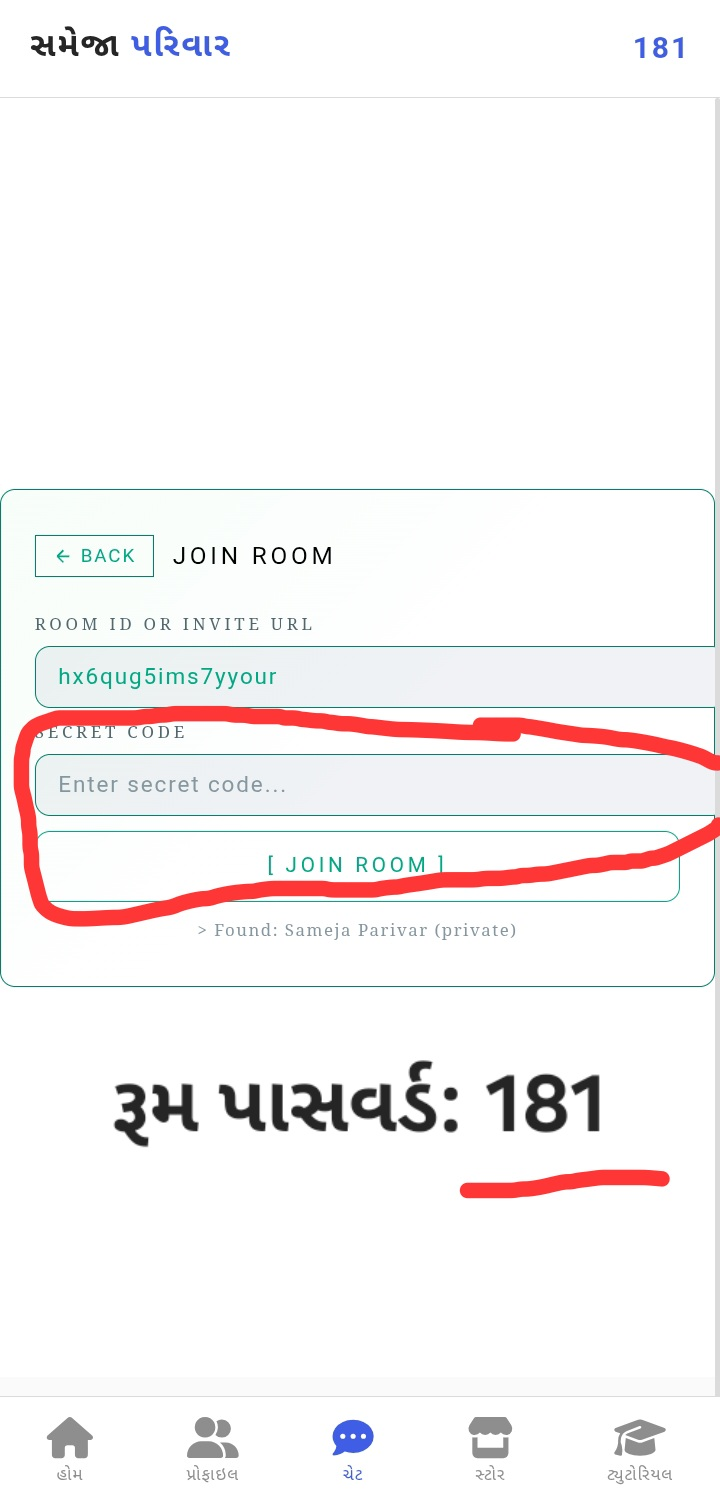
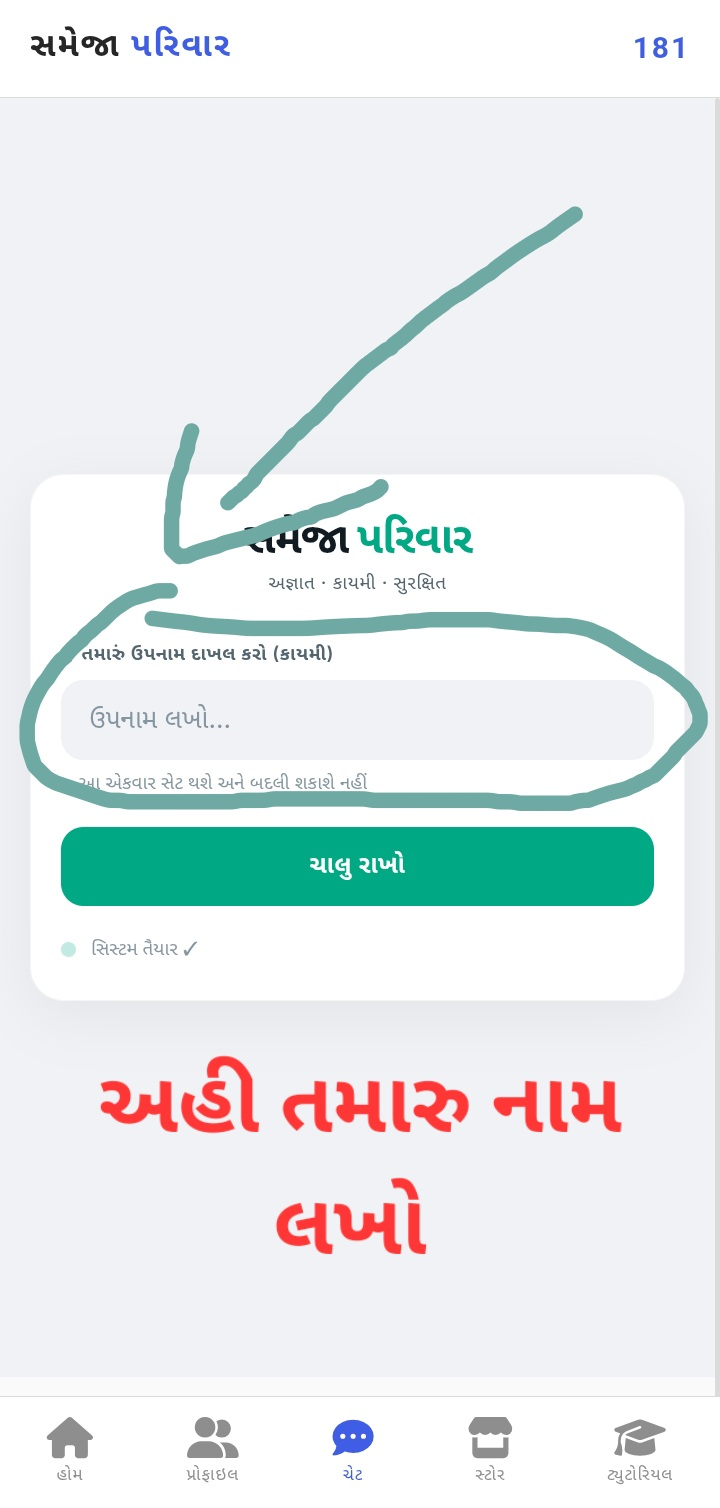
Add files via upload

diff --git a/index.html b/index.html
@@ -3,10 +3,10 @@
 <head>
 <meta charset="UTF-8">
 <meta name="viewport" content="width=device-width, initial-scale=1.0, maximum-scale=1.0, user-scalable=no">
-<title>સમેજા પરિવાર</title>
+<title>સમેજા પરિવાર | દાદીમા ની દુવા </title>
 
 <!-- PWA META TAGS -->
-<meta name="description" content="સમેજા પરિવાર - ગુજરાતી સોશિયલ નેટવર્ક">
+<meta name="description" content="સમેજા પરિવાર - દાદીમા ની દુવા ">
 <meta name="theme-color" content="#405DE6">
 <meta name="mobile-web-app-capable" content="yes">
 <meta name="apple-mobile-web-app-capable" content="yes">
@@ -782,7 +782,7 @@ html, body {
     <button class="tutorial-popup-close" id="tutorial-close"><i class="fas fa-times"></i></button>
     <img src="t5.jpg" alt="Tutorial" id="tutorial-img">
     <div class="tutorial-popup-footer">
-      <h3>📚 સ્વાગત છે!</h3>
+      <h3>સમેજા પરિવાર</h3>
       <p>એપનો ઉપયોગ કેવી રીતે કરવો તે જાણવા માટે આ ટ્યુટોરિયલ જુઓ</p>
     </div>
   </div>
@@ -827,6 +827,7 @@ html, body {
      ============================================================ -->
 <div id="splash">
   <div class="splash-logo">સમેજા પરિવાર</div>
+  <div class="splash-sub">દાદીમા ની દુવા </div>
   <div class="splash-sub">Created By Rehan Sandhi</div>
   <div class="splash-loader"></div>
 </div>
@@ -850,7 +851,7 @@ html, body {
 
     <!-- PAGE 2: PROFILES -->
     <div class="page" id="page-profiles">
-      <div class="page-title"><i class="fas fa-users"></i> અમારા પ્રોફાઇલ્સ</div>
+      <div class="page-title"><i class="fas fa-users"></i>પ્રોફાઇલ્સ</div>
       <div class="profile-grid" id="profile-grid"></div>
     </div>
 

diff --git a/sw.js b/sw.js
@@ -3,6 +3,7 @@ const ASSETS = [
   '.',
   'index.html',
   'manifest.json',
+  'chat.html',
   'icon-512.png',
   'insta1.jpg',
   'insta2.jpg',
